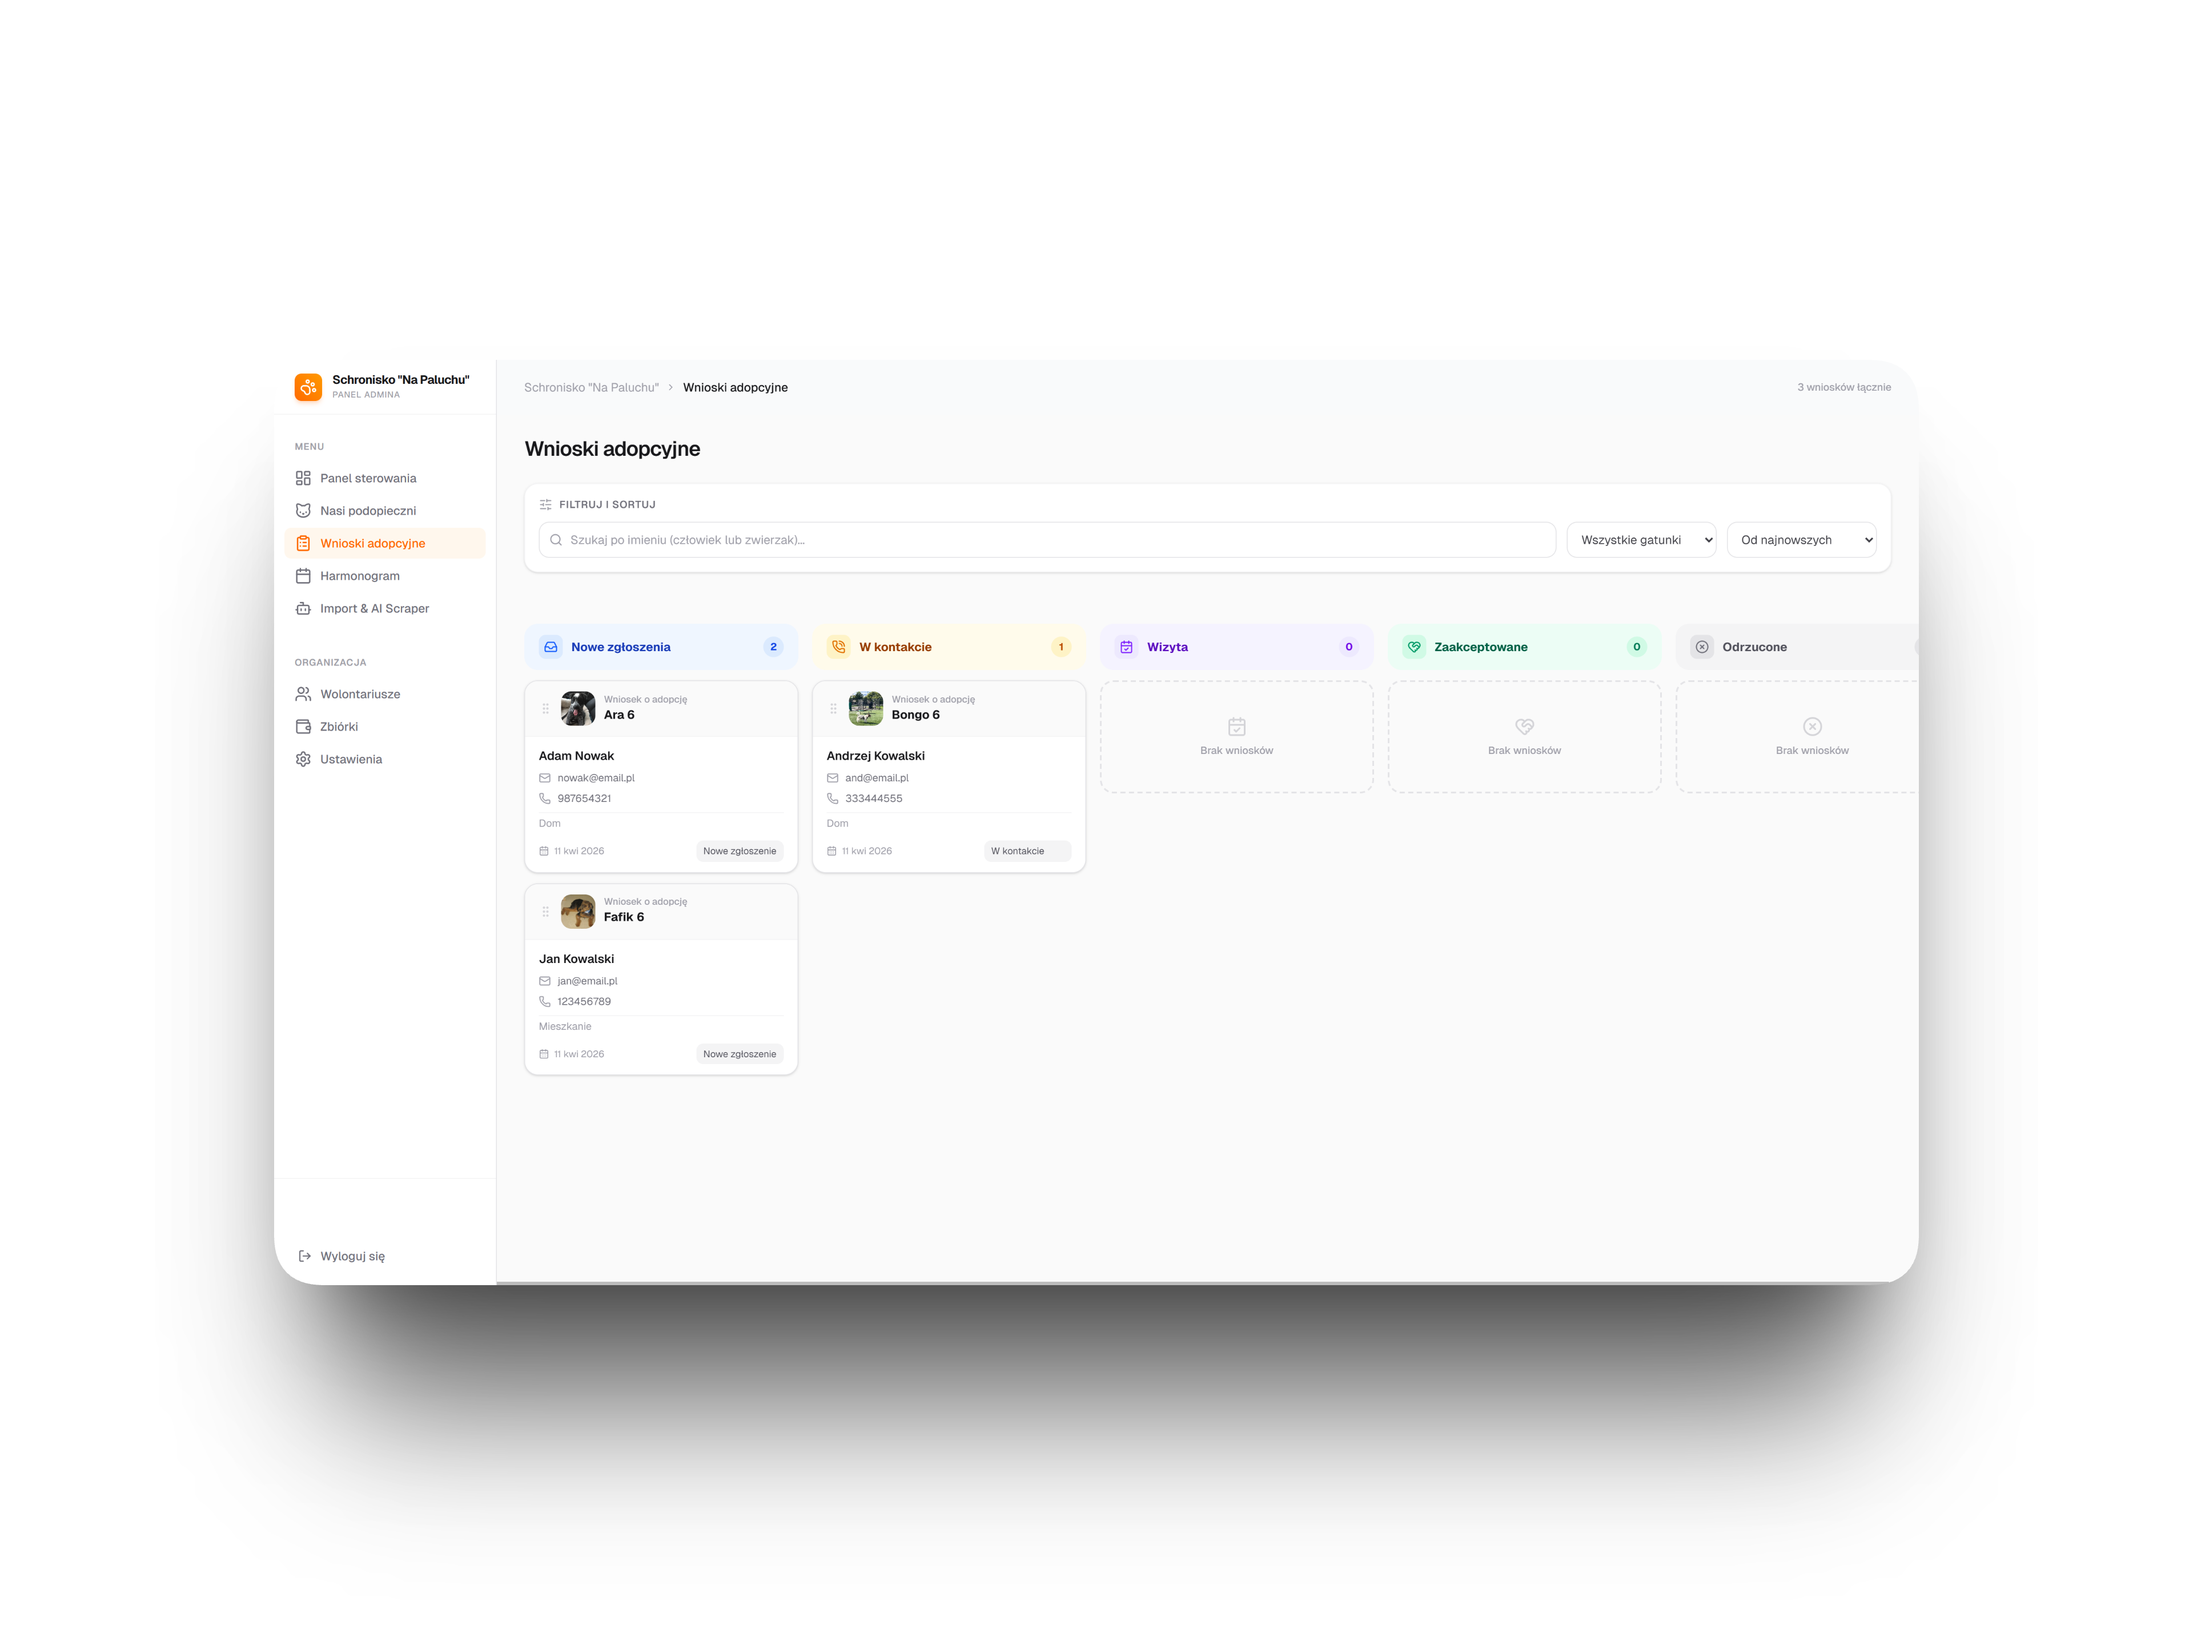
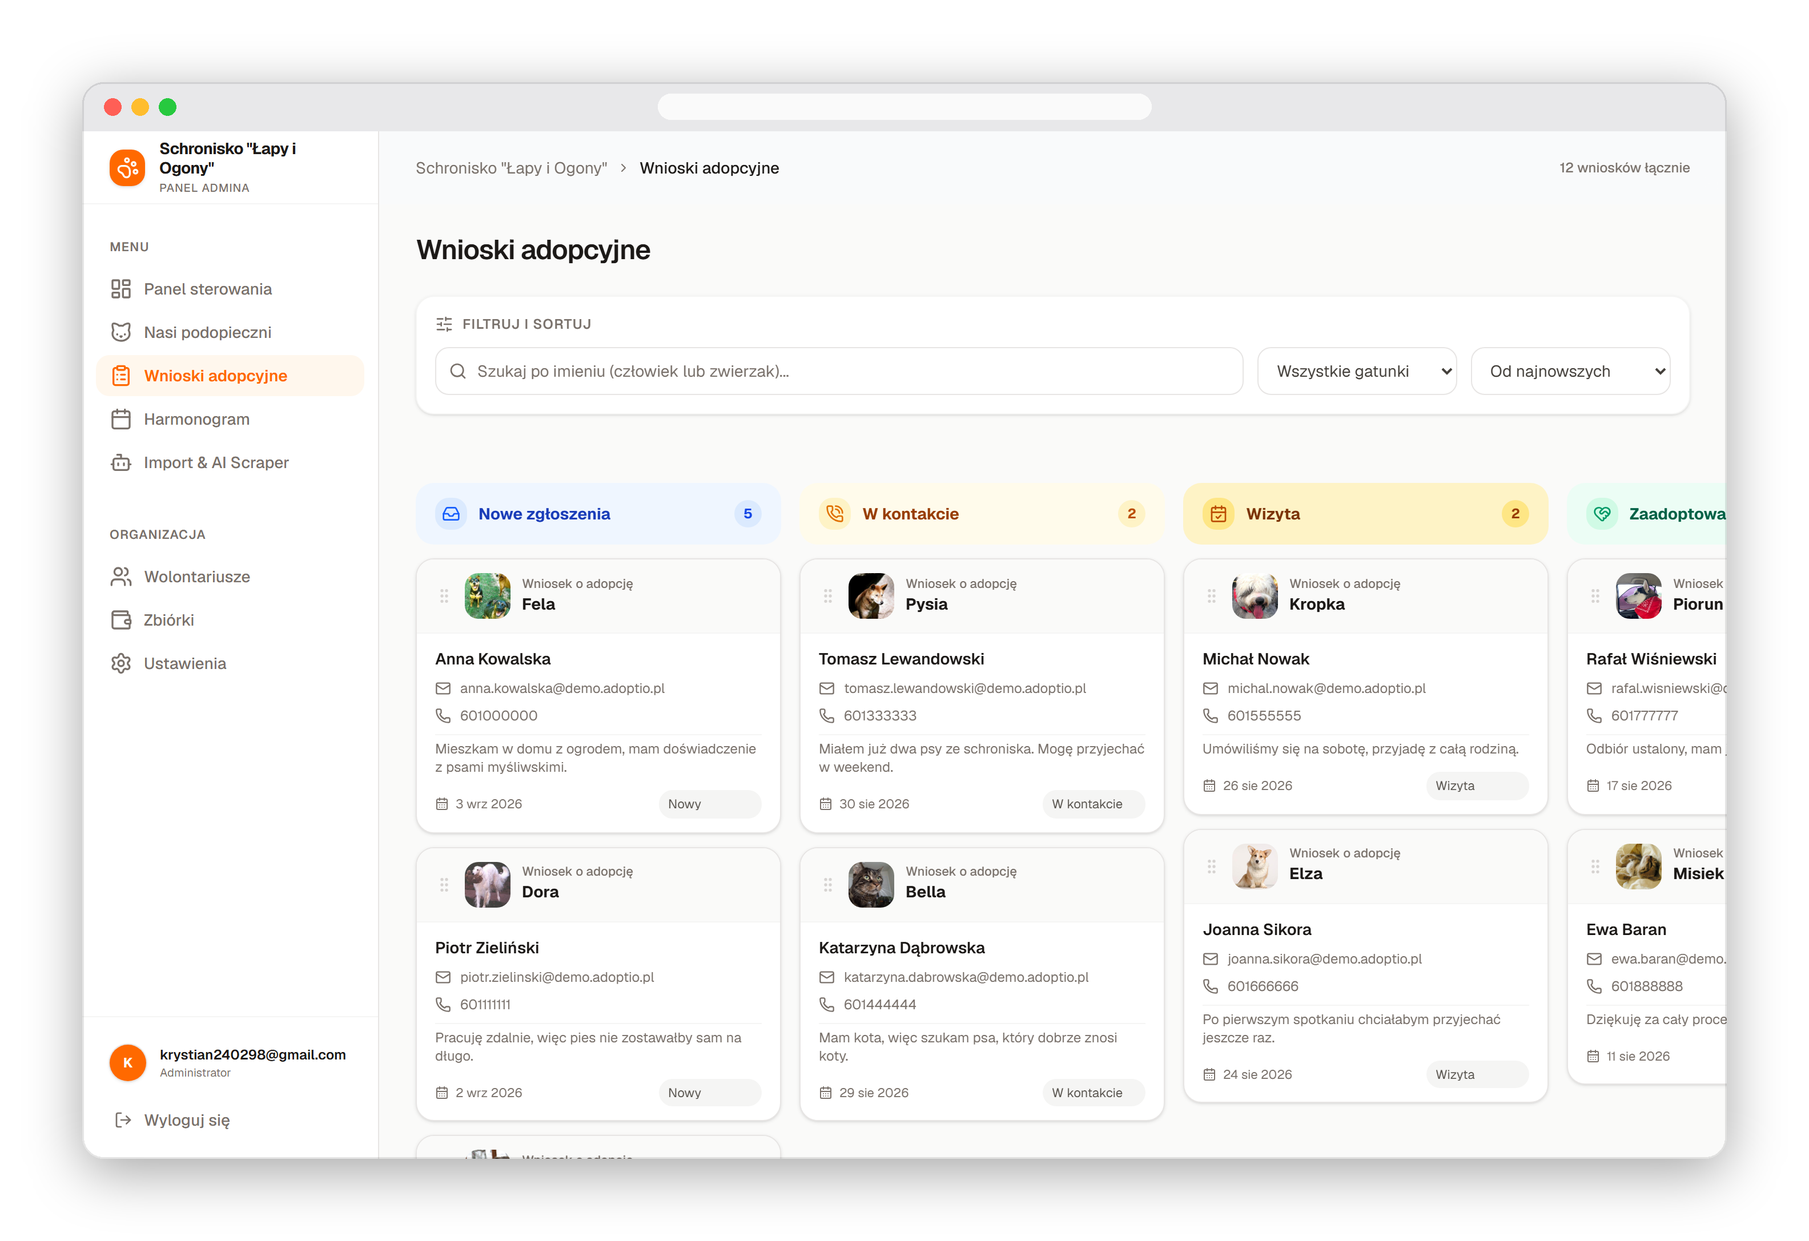
feat(adoptio): re-shoot the kanban slide now that its thumbnails load
The broken "Kropka" card thumbnail is fixed on live Adoptio, so the one
slide left in the old un-framed style could finally be re-shot. Same
recipe as the rest: capture_adoptio.py through the panel session at
deviceScaleFactor=2, cropped to the first viewport, then frame_screens.py
browser --theme light — 3168x2174, matching the other seven.

Checked every card header in the raw crop at full resolution, not just
Kropka: all nine cards in frame render real photos, including the one
sliced by the bottom of the viewport.

With its image now carrying its own chrome, the slide no longer needs the
scale(1.2375) meant for bare cards, so its type moves to "framed" and the
whole carousel renders identically.

diff --git a/src/app/projects/adoptio/page.tsx b/src/app/projects/adoptio/page.tsx
@@ -24,9 +24,7 @@ const SLIDES: { src: string; labelKey: string; altKey: string; type: SlideType }
   { src: "/adoptio-pet.png",        labelKey: "adoptme.slide.pet",         altKey: "adoptme.alt.pet",         type: "framed" },
   { src: "/adoptio-mobile.png",     labelKey: "adoptme.slide.mobile",      altKey: "adoptme.alt.mobile",      type: "framed" },
   { src: "/adoptio-dashboard.png",  labelKey: "adoptme.slide.dashboard",   altKey: "adoptme.alt.dashboard",   type: "framed" },
-  // Jedyny slajd wciąż w starej, nieoprawionej wersji — czeka na poprawkę
-  // miniatury "Kropka" na live. Po ponownym zrzucie i oprawie: type: "framed".
-  { src: "/adoptio-kanban.png",     labelKey: "adoptme.slide.kanban",      altKey: "adoptme.alt.kanban",      type: "flat"   },
+  { src: "/adoptio-kanban.png",     labelKey: "adoptme.slide.kanban",      altKey: "adoptme.alt.kanban",      type: "framed" },
   { src: "/adoptio-blog.png",       labelKey: "adoptme.slide.blog",        altKey: "adoptme.alt.blog",        type: "framed" },
 ];
 
